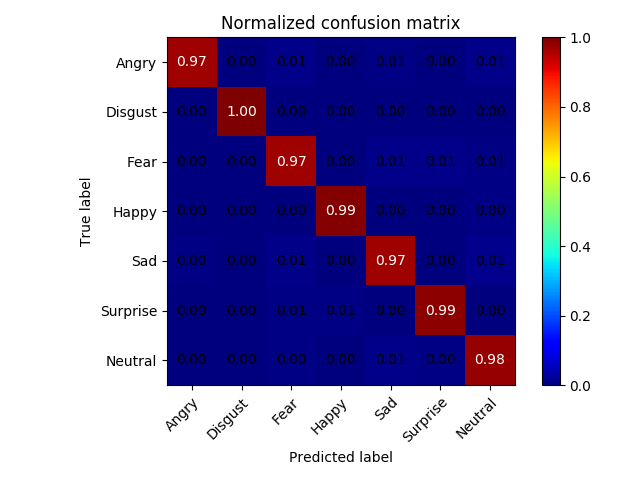
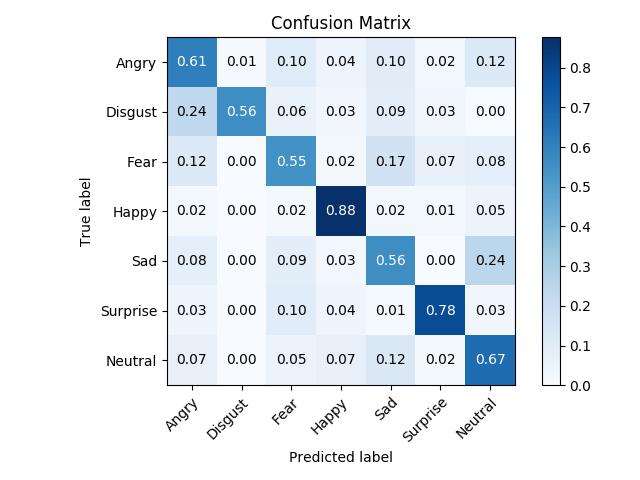
upl hw4 and upd hw3 confusion matrix

diff --git a/hw3/hw3_exp.py b/hw3/hw3_exp.py
@@ -97,9 +97,11 @@ print(y_pred.shape)
 def plot_confusion_matrix(y_true, y_pred, classes,
                           normalize=False,
                           title=None,
-                          cmap=plt.cm.jet):
+                          cmap=plt.cm.Blues):
     """
-    This function prints and plots the confusion matrix.
+    This function prints and plots the confusion matrix. [0.24 0.56 0.06 0.03 0.09 0.03 0.  ]
+ [0.12 0.   0.55 0.02 0.17 0.07 0.08]
+
     Normalization can be applied by setting `normalize=True`.
     """
     if not title:
@@ -157,7 +159,11 @@ class_names = np.array(['Angry', 'Disgust', 'Fear', 'Happy', 'Sad', 'Surprise', 
 
 # Plot normalized confusion matrix
 plot_confusion_matrix(y_true, y_pred, classes=class_names, normalize=True,
-                      title='Normalized confusion matrix')
+                      title='Confusion Matrix')
 plt.savefig('confusion_matrix.png')
 plt.show()
+
+
+
+
 
